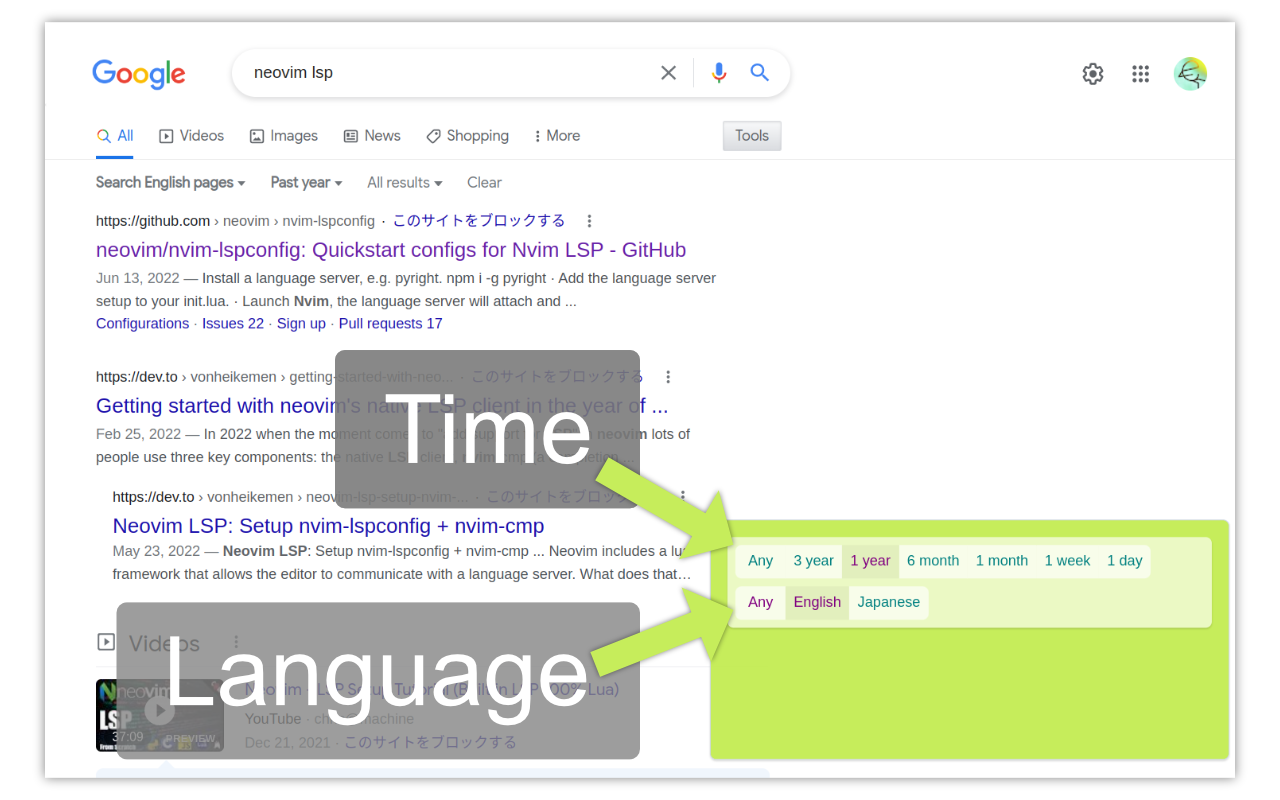
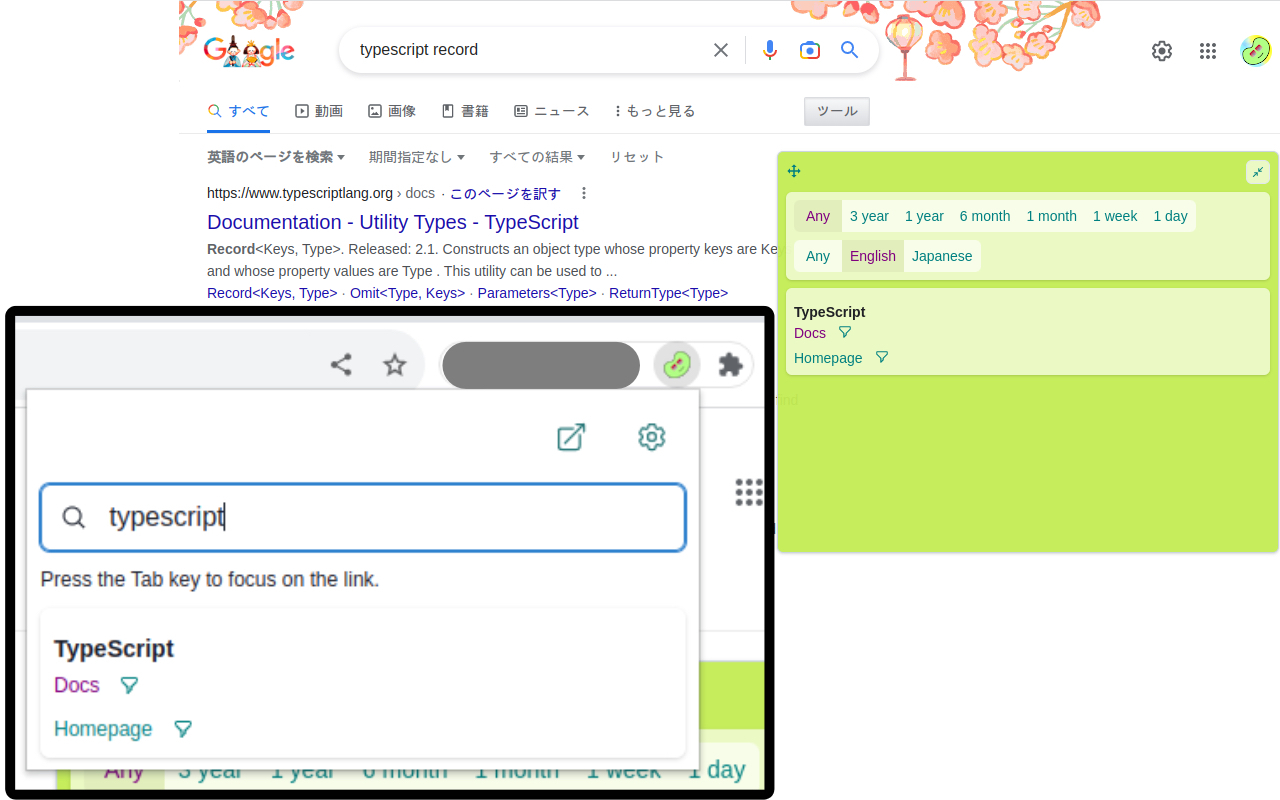
feat: add some domains and update docs #87

diff --git a/src/options/App.tsx b/src/options/App.tsx
@@ -13,6 +13,8 @@ import {
   Image,
   HStack,
   VStack,
+  Link,
+  Spacer,
 } from "@chakra-ui/react";
 import React from "react";
 import {
@@ -20,14 +22,26 @@ import {
   HiOutlineClock,
   HiOutlineTranslate,
 } from "react-icons/hi";
+import { HiStar } from "react-icons/hi2";
 
 const App: React.FC = () => {
   return (
     <VStack className="App" m="4" align="start" spacing="8">
-      <HStack>
+      <HStack width="full">
         <Image boxSize="36px" src="/icons/icon-32x32.png" />
         <Text fontSize="lg" my="2">
           Choomame
+        </Text>
+        <Spacer />
+        <Text fontSize="md" color="teal">
+          <Link
+            href="https://chrome.google.com/webstore/detail/lecnbgonlcmmpkpnngbofggjiccbnokn/reviews"
+            isExternal
+          >
+            <Icon as={HiStar} mr="1" />
+            You can leave a review here if you like!
+            <Icon as={HiStar} mr="1" />
+          </Link>
         </Text>
       </HStack>
       <AppearanceArea />

diff --git a/src/features/customLink/CustomLinkTab.tsx b/src/features/customLink/CustomLinkTab.tsx
@@ -24,12 +24,14 @@ import {
   fetchAllCustomLinkItem,
 } from "./customLinkItemSlice";
 import { CustomLinkRestoreJson } from "./customLinkSchema";
+import { ExternalLinkIcon } from "@chakra-ui/icons";
 import {
   Box,
   Button,
   Heading,
   HStack,
   Icon,
+  Link,
   Spacer,
   Stack,
   StackDivider,
@@ -95,6 +97,15 @@ const CustomLinkTab: React.FC = () => {
         }}
       >
         <Stack alignItems="start">
+          <Link
+            fontSize="md"
+            color="teal.500"
+            mb="4"
+            href="https://github.com/eetann/choomame-custom-link-collection#readme"
+            isExternal
+          >
+            What is Custom Link? <ExternalLinkIcon mx="2px" />
+          </Link>
           <HStack>
             <Icon as={HiOutlineListBullet} boxSize={5} />
             <Heading size="md">Collection</Heading>

diff --git a/src/manifest.ts b/src/manifest.ts
@@ -56,5 +56,21 @@ export default defineManifest({
       js: ["src/content/index.tsx"],
       matches: ["https://www.google.co.in/search*"],
     },
+    {
+      js: ["src/content/index.tsx"],
+      matches: ["https://www.google.com.ua/search*"],
+    },
+    {
+      js: ["src/content/index.tsx"],
+      matches: ["https://www.google.co.kr/search*"],
+    },
+    {
+      js: ["src/content/index.tsx"],
+      matches: ["https://www.google.com.mx/search*"],
+    },
+    {
+      js: ["src/content/index.tsx"],
+      matches: ["https://www.google.com.nr/search*"],
+    },
   ],
 });

diff --git a/docs/meta.md b/docs/meta.md
@@ -1,39 +1,48 @@
 # 説明欄に掲載する文章
+
+Choomame shows the following link to Popup and the Google search results.
+
+- `Time`: restrict results to a specific time period
+  - example: 3 years, 1 month, 1 week ...
+- `Language`: restrict results to a specific language
+  - example: English, Japanese, Spanish ...
+- `Custom Link`: easy access to frequently viewed pages, site searches, official documents
+  - Check https://github.com/eetann/choomame-custom-link-collection#readme for details.
+
+These can be freely customized on the option page.
+
+If you want to use a shortcut key to open a popup, type `Ctrl(Command) + q`. This shortcut key can be assigned freely at `chrome://extensions/shortcuts'.
+
+In Vivaldi, it is not available, so I have added `Alt+Q` to open a tab instead of popup. It might be useful to register it as a web panel.
+
 Choomame is an improved versioin of my previous extension "Amazing Searcher".
-Choomame adds the following link to the Google search results.
 
-* `Time`: restrict results to a specific time period
-  * example: 3 years, 1 month, 1 week ...
-* `Language`: restrict results to a specific language
-  * example: English, Japanese, Spanish ...
+# unlimitedStorage が必要な理由
 
-`Time` and `Language` can be freely customized on the option page.
-
-
-# unlimitedStorageが必要な理由
 To allow users to customize the time and language links displayed on the Google search results screen.
 
+# storage が必要な理由
 
-# storageが必要な理由
 To allow users to customize the time and language links displayed on the Google search results screen.
-
 
 # ホスト権限が必要な理由
+
 > ホスト権限は、拡張機能のマニフェストの「permissions」フィールドと「content_scripts」フィールドで指定されたマッチパターンです
-To display the data in Google's search results.
+> To display the data in Google's search results.
 
+# Product Hunt 用
 
-# Product Hunt用
 ## Tagline(キャッチコピー)
+
 Chrome Extensions for quick information at hand
 
-
 ## タグ
+
 - Chrome Extensions
 - Productivity
 
-
 ## Description of the product
+
 **260 characters max**
 
 Choomame adds the following link to the Google search results.
@@ -41,8 +50,8 @@ Time: restrict results to a specific time period(3 years, 1 month, ...)
 Language: restrict results to a specific language(English, Japanese, ...)
 These can be freely customized on the option page.
 
-
 ## コメント文
+
 Hello World.
 
 "I googled but all I get is old information, I only want to look up information that is less than 3 years old."

diff --git a/README.md b/README.md
@@ -6,26 +6,32 @@
 </p>
 
 # Choomame
-Choomame (チューマメ) is a browser extension that add amazing information to search results.
 
-**You can install at [Chrome Web Store](https://chrome.google.com/webstore/detail/choomame-alpha/lecnbgonlcmmpkpnngbofggjiccbnokn)!**
+Choomame (チューマメ) is a browser extension that add amazing information to search results and Popup.
 
-This extension is an improved versioin of my previous extension Amazing Searcher([Chrome Web Store](https://chrome.google.com/webstore/detail/amazing-searcher/poheekmlppakdboaalpmhfpbmnefeokj), 
+**You can install at [Chrome Web Store](https://chrome.google.com/webstore/detail/lecnbgonlcmmpkpnngbofggjiccbnokn)!**
+
+This extension is an improved versioin of my previous extension Amazing Searcher([Chrome Web Store](https://chrome.google.com/webstore/detail/amazing-searcher/poheekmlppakdboaalpmhfpbmnefeokj),
 
 [GitHub](https://github.com/eetann/amazing-searcher))
 
-![Content Script](./docs/assets/content-script-1280x800.png)
+![Content Script and popup](./docs/assets/content-script-1280x800.png)
 
-Choomame adds the following link to the Google search results.
+Choomame shows the following link to Popup and the Google search results.
 
-* `Time`: restrict results to a specific time period
-  * example: 3 years, 1 month, 1 week ...
-* `Language`: restrict results to a specific language
-  * example: English, Japanese, Spanish ...
+- `Time`: restrict results to a specific time period
+  - example: 3 years, 1 month, 1 week ...
+- `Language`: restrict results to a specific language
+  - example: English, Japanese, Spanish ...
+- `Custom Link`: easy access to frequently viewed pages, site searches, official documents
+  - Check [choomame-custom-link-collection](https://github.com/eetann/choomame-custom-link-collection#readme) for details.
 
-`Time` and `Language` can be freely customized on the option page.
+These can be freely customized on the option page.
 
 ![Option Page](./docs/assets/option-1280x800.png)
 
----
-[Here is the Roadmap.](https://github.com/eetann/choomame/projects/1)
+## Shortcut key
+
+If you want to use a shortcut key to open a popup, type `Ctrl(Command) + q`. This shortcut key can be assigned freely at `chrome://extensions/shortcuts'.
+
+In Vivaldi, it is not available, so I have added `Alt+Q` to open a tab instead of popup. It might be useful to register it as a web panel.
